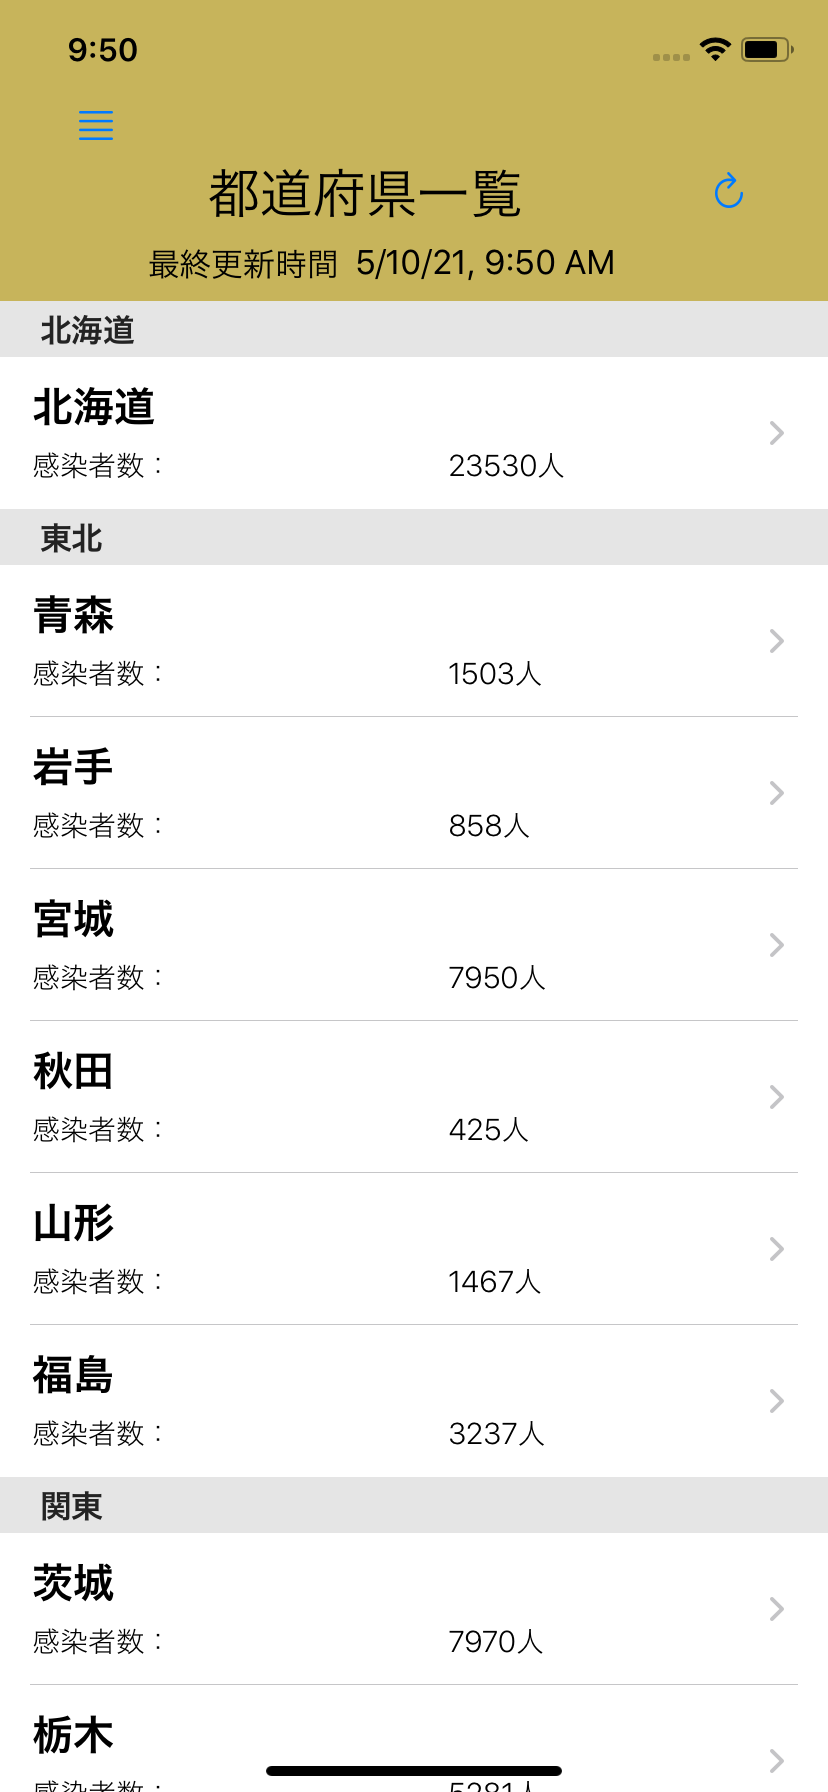
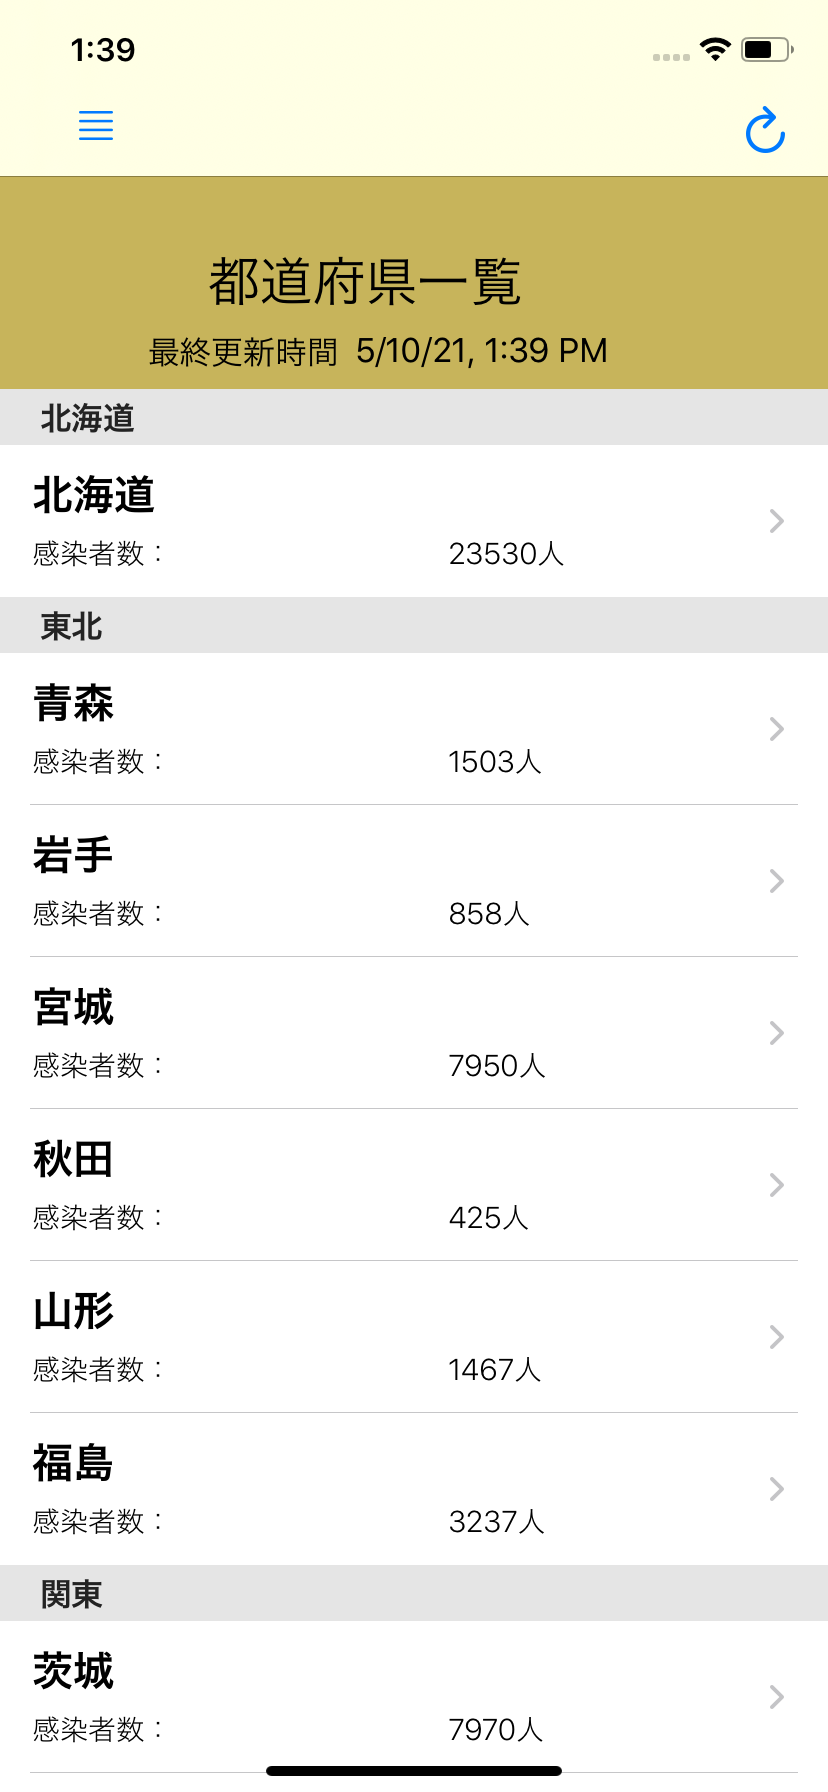
都道府県一覧画面更新

diff --git a/TraningAPI/View/PrefecturesListView/PrefecturesListViewController.swift b/TraningAPI/View/PrefecturesListView/PrefecturesListViewController.swift
@@ -21,12 +21,8 @@ class PrefecturesListViewController: UIViewController{
         }
     }
     @IBOutlet weak var lastUpdateLabel: UILabel!
-    @IBOutlet weak var reloadButton: UIButton!{
-        didSet{
-            reloadButton.addTarget(self,action: #selector(reloadTableView), for: .touchUpInside)
-            reloadButton.isEnabled = false
-        }
-    }
+    let reloadButton =  UIBarButtonItem(image: UIImage(systemName: "arrow.clockwise"), style: .done, target: self, action: #selector(reloadTableView))
+        
     
     
     override func viewDidLoad() {
@@ -34,6 +30,7 @@ class PrefecturesListViewController: UIViewController{
         presenter = PrefecturesPresenter(delegate: self)
         print("Presenterに情報取得の指示")
         presenter.getPrefecturesModel(updateComp: true)
+        navigationItem.rightBarButtonItems = [reloadButton]
     }
     deinit {
         print("prefectureslist", #function)
@@ -41,7 +38,6 @@ class PrefecturesListViewController: UIViewController{
     override func viewWillAppear(_ animated: Bool) {
         super.viewWillAppear(true)
         print(#function)
-        self.navigationController?.navigationBar.isHidden = true
         self.delegate?.viewWillAppear()
         
         print(self.parent?.parent)

diff --git a/TraningAPI/View/LicenceListView/LicenceListViewController.swift b/TraningAPI/View/LicenceListView/LicenceListViewController.swift
@@ -16,7 +16,6 @@ class LicenceListViewController: UIViewController {
     override func viewDidLoad() {
         super.viewDidLoad()
         view.backgroundColor = .systemGray6
-        self.navigationController?.navigationBar.isHidden = false
         self.navigationItem.title = ConstEntity.LICENCETITLE
         
         // メニューリスト設定

diff --git a/TraningAPI/View/DerailsView/DetailsViewController.swift b/TraningAPI/View/DerailsView/DetailsViewController.swift
@@ -58,7 +58,6 @@ class DetailsViewController: UIViewController {
     // MARK: -
     override func viewDidLoad() {
         super.viewDidLoad()
-        self.navigationController?.navigationBar.isHidden = false
         preseter = DetailsPresenter(delegate: self)
         
         self.view.backgroundColor = .white

diff --git a/README.md b/README.md
@@ -16,13 +16,14 @@ https://github.com/ryo-ma/covid19-japan-web-api/blob/master/README.ja.md
 - ライセンス表記画面
 
 #### 都道府県一覧表示画面  
-<img src="https://user-images.githubusercontent.com/24288482/117592989-99874080-b175-11eb-8020-633edc92b93e.png" alt="都道府県一覧画面" title="都道府県一覧画面" width="400" height="600">  
+<img src="https://user-images.githubusercontent.com/24288482/117606632-43c29080-b195-11eb-99cf-0ca7fc7ebe9b.png" alt="都道府県一覧画面" title="都道府県一覧画面" width="400" height="600">  
   
 - 画面表示項目  
     - 上記APIより取得した都道府県の名前一覧    
     - API取得最終更新日時表示  
 
 また、都道府県名を選択するとコロナ感染情報画面を表示する  
+右上の更新ボタンを押すと、最新情報を取得しコロナ感染情報を更新する。
   
 #### コロナ感染情報表示画面
 <img src="https://user-images.githubusercontent.com/24288482/117592999-a0ae4e80-b175-11eb-8ba5-cc4a33fdf50e.png" alt="コロナ感染情報表示画面" title="コロナ感染情報表示画面" width="400" height="600">  
